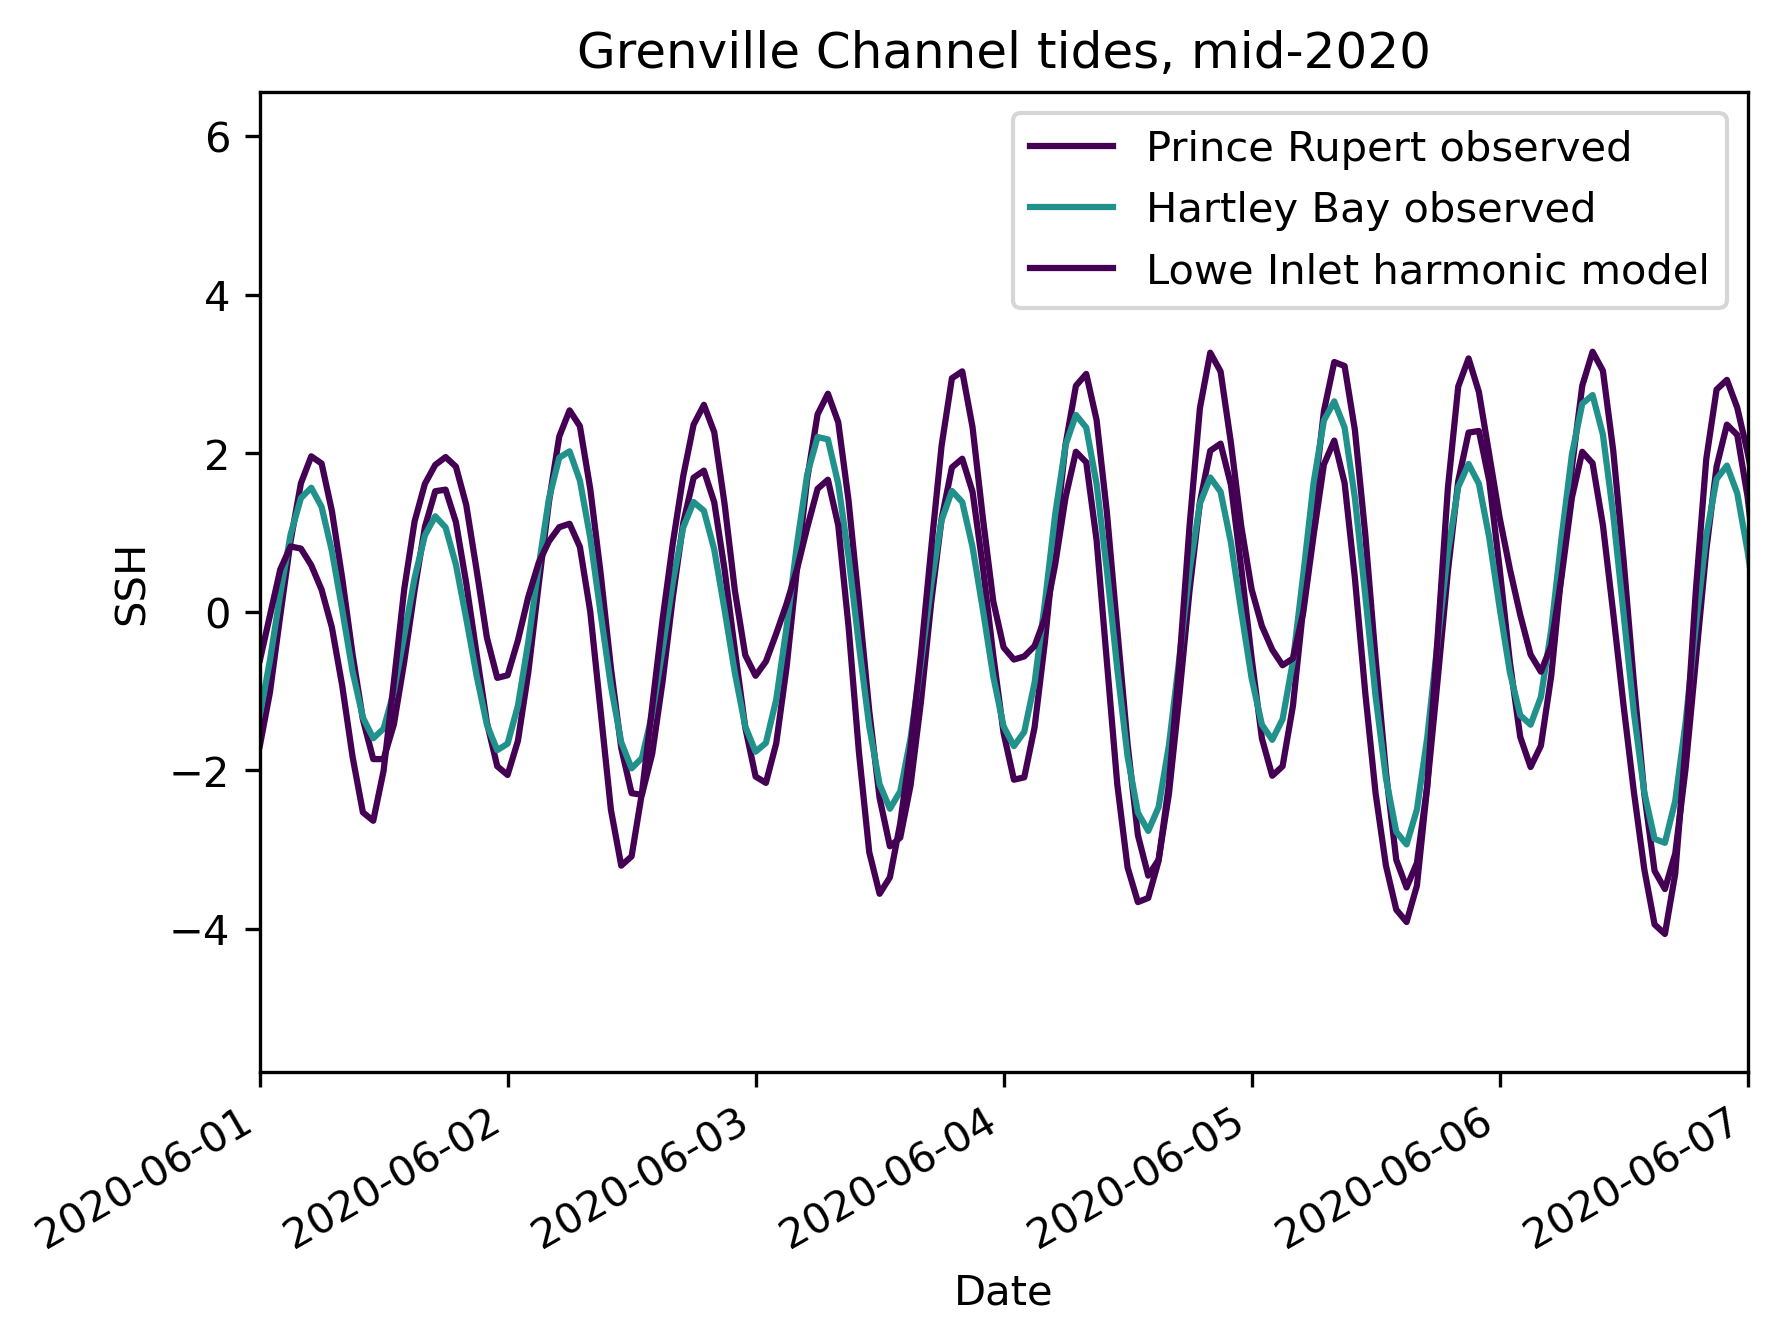
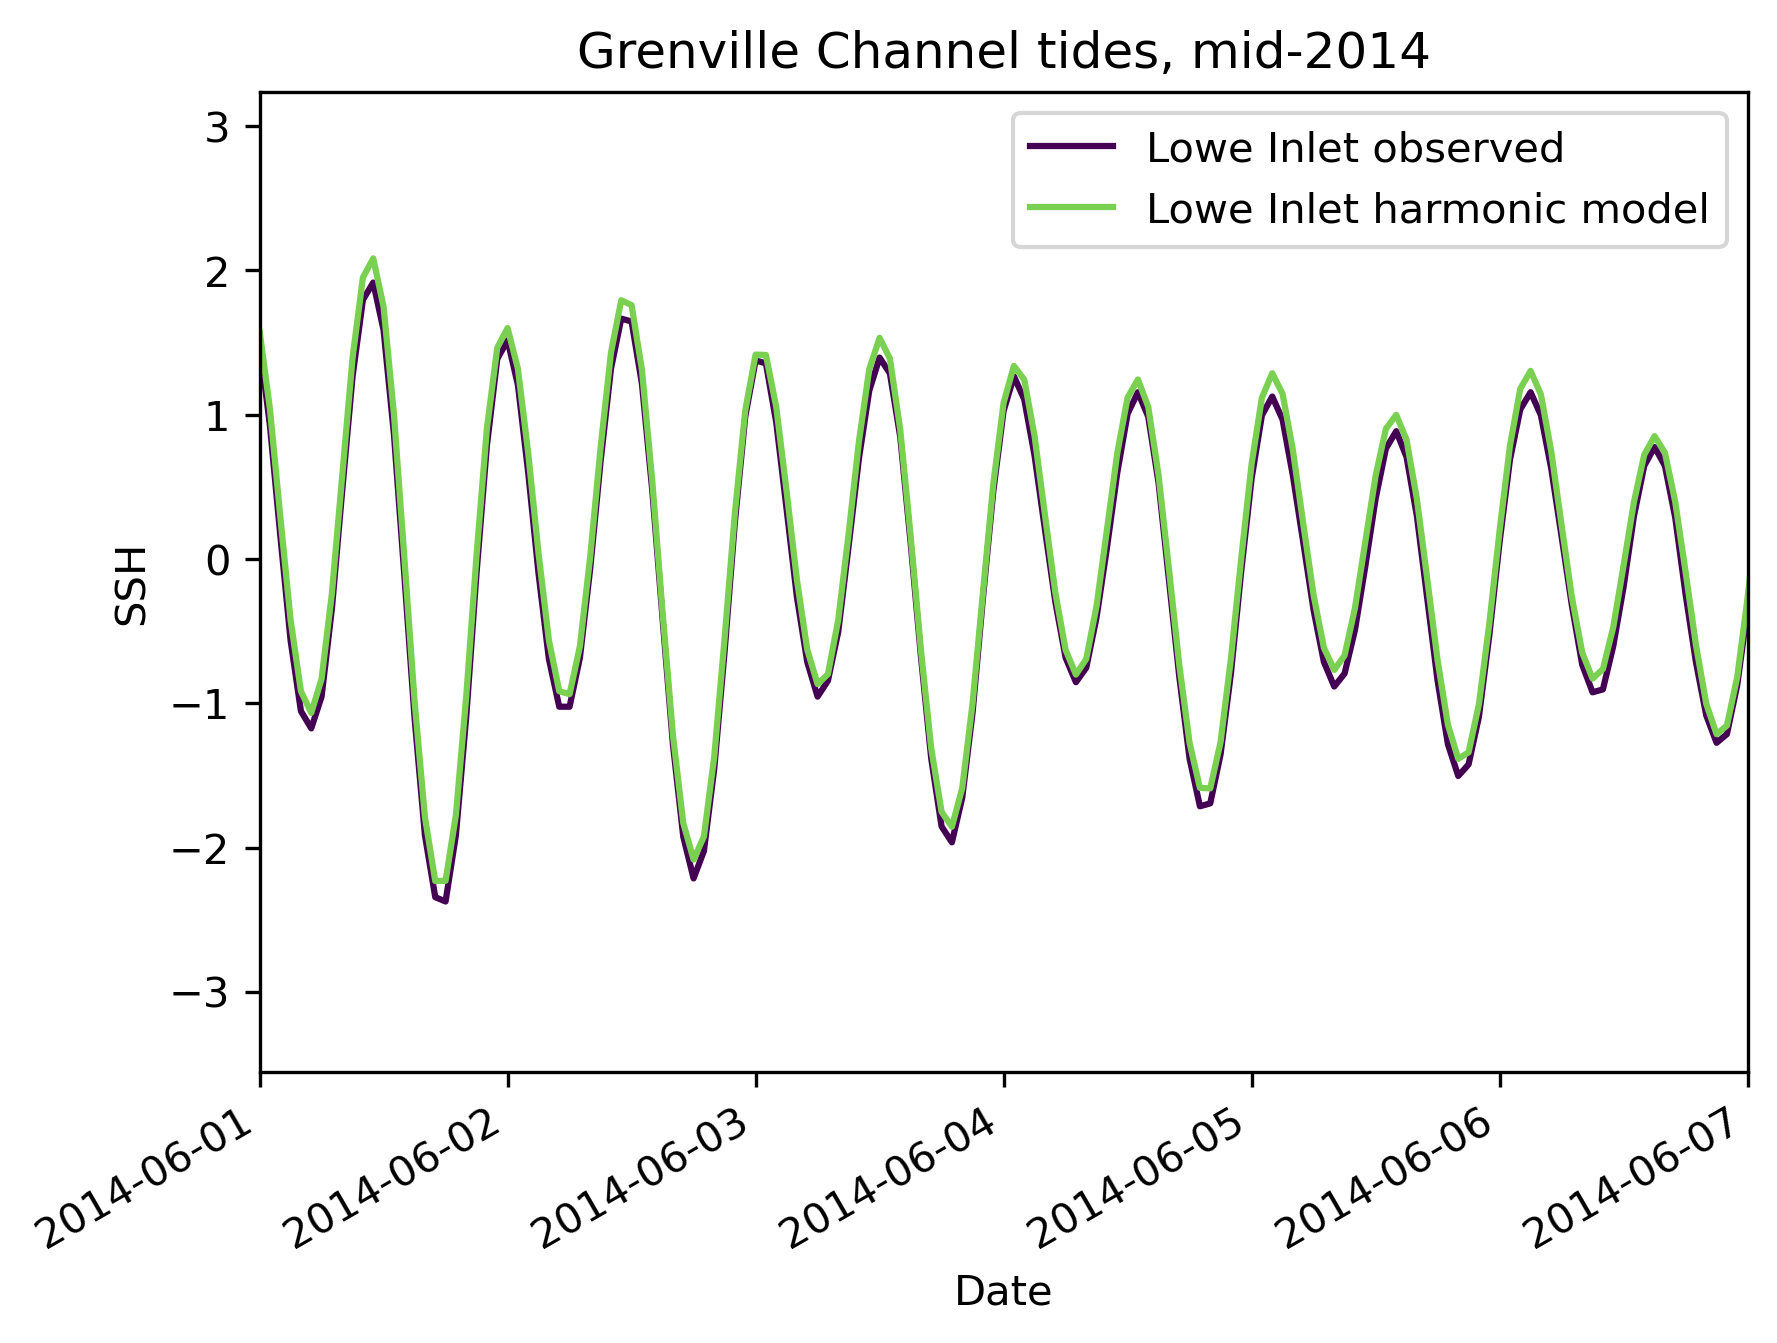
Fixed colour scheme in some tide gauge [Cplots

diff --git a/tide_gauges_obs.py b/tide_gauges_obs.py
@@ -34,11 +34,12 @@ def tide_gauges():
 
 		#extending the 2014 Lowe Inlet data forward to match the other data
 		wt = pytide.WaveTable()
-		time = df['LoweInlet_date'].dropna().to_numpy()
+		time2014 = df['LoweInlet_date'].dropna().to_numpy()
+		time2020 = df['HartleyBay_date'].dropna().to_numpy()
 		h = df['LoweInlet_val'].dropna().to_numpy()
-		f, vu = wt.compute_nodal_modulations(time)
+		f, vu = wt.compute_nodal_modulations(time2014)
 		w = wt.harmonic_analysis(h, f, vu)
-		hp = wt.tide_from_tide_series(df['HartleyBay_date'].dropna().to_numpy(), w) #can change the time if you want!!
+		hp = wt.tide_from_tide_series(time2014, w) #can change the time if you want!!
 
 		#IGNORE THIS SECTION
 		#wtM2 = pytide.WaveTable(["M2"])
@@ -50,19 +51,19 @@ def tide_gauges():
 		fig,ax1 = plt.subplots()
 		
 		#tide gauge data
-		df.plot(x='PrinceRupert_date', y='PrinceRupert_val', ax=ax1, color=c1, label='Prince Rupert observed')
-		df.plot(x='HartleyBay_date', y='HartleyBay_val', ax=ax1, color=c2, label='Hartley Bay observed')
-		#df.plot(x='LoweInlet_date', y='LoweInlet_val', ax=ax1, color=c3, label='Lowe Inlet observed')
+		##df.plot(x='PrinceRupert_date', y='PrinceRupert_val', ax=ax1, color=c1, label='Prince Rupert observed')
+		##df.plot(x='HartleyBay_date', y='HartleyBay_val', ax=ax1, color=c2, label='Hartley Bay observed')
+		df.plot(x='LoweInlet_date', y='LoweInlet_val', ax=ax1, color=c1, label='Lowe Inlet observed')
 
 		#modelled tides
-		ax1.plot(df['HartleyBay_date'].dropna().to_numpy(),hp,color=c1,label='Lowe Inlet harmonic model') #can change the time, so long as it is the same as when you made hp
+		ax1.plot(time2014,hp,color=c3,label='Lowe Inlet harmonic model') #can change the time, so long as it is the same as when you made hp
 
 		ax1.legend()
-		ax1.set_title('Grenville Channel tides, mid-2020')
+		ax1.set_title('Grenville Channel tides, mid-2014')
 		ax1.set_ylabel('SSH')
 		ax1.set_xlabel('Date')
 		#ax1.set_xlim([date(2020, 1, 1), date(2020, 1, 7)])
-		ax1.set_xlim([date(2020, 6, 1), date(2020, 6, 7)])
+		ax1.set_xlim([date(2014, 6, 1), date(2014, 6, 7)])
 
 		fig.savefig('plots/tide_gauges_2020.png',dpi=300, bbox_inches="tight")
 		fig.clf()
